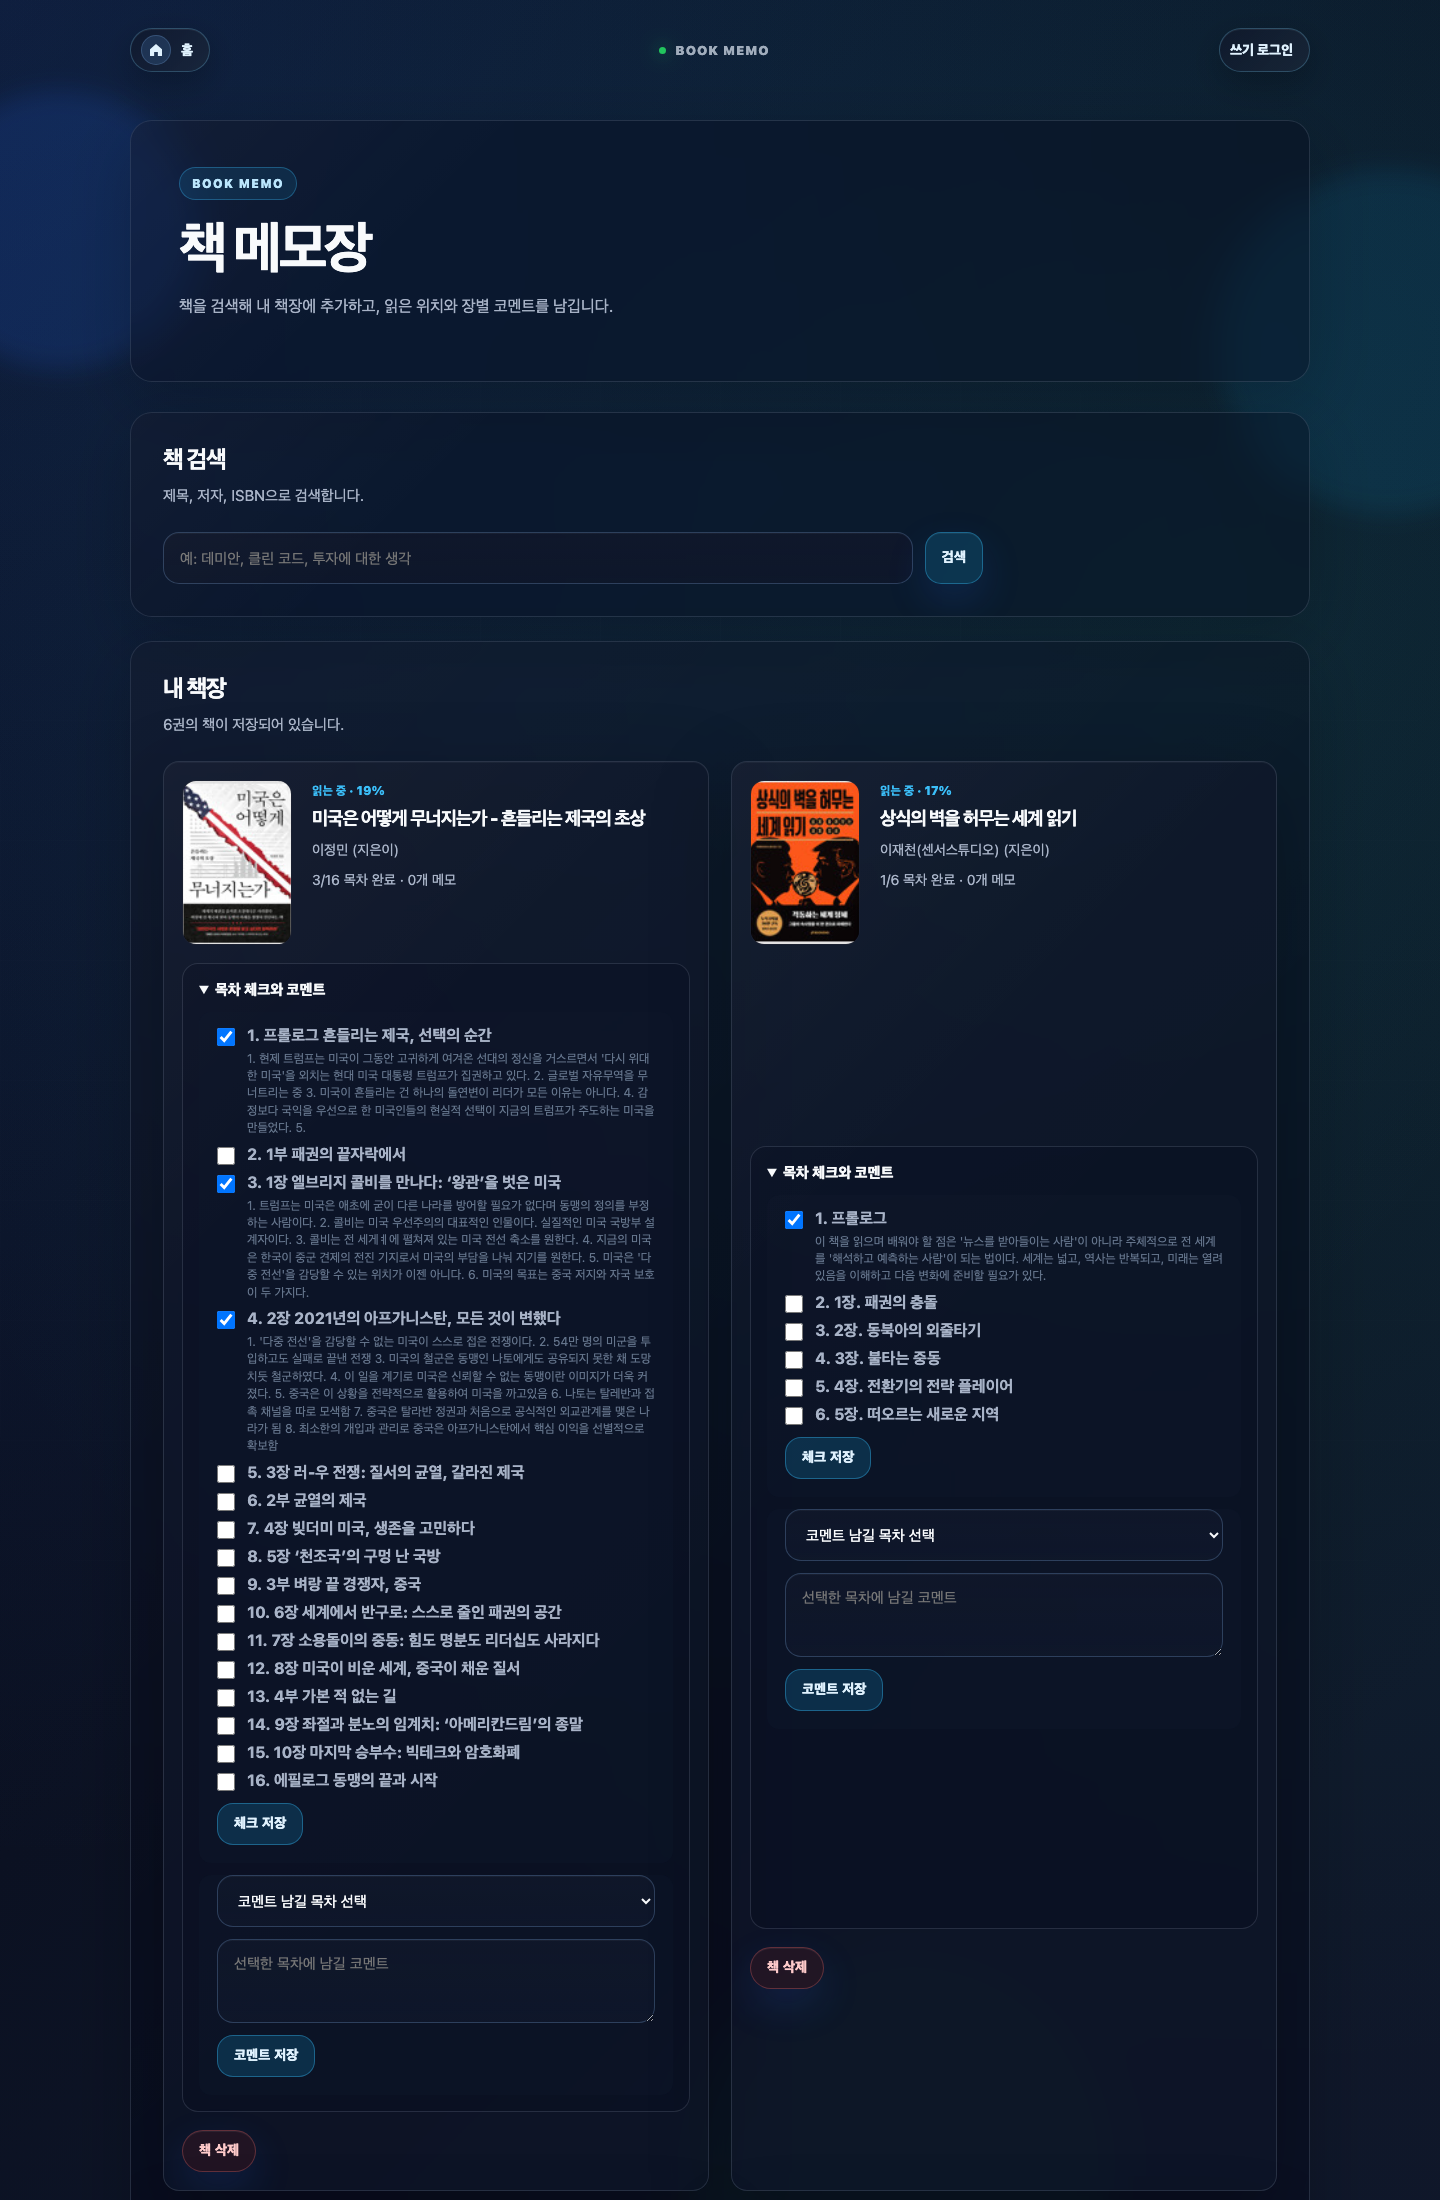
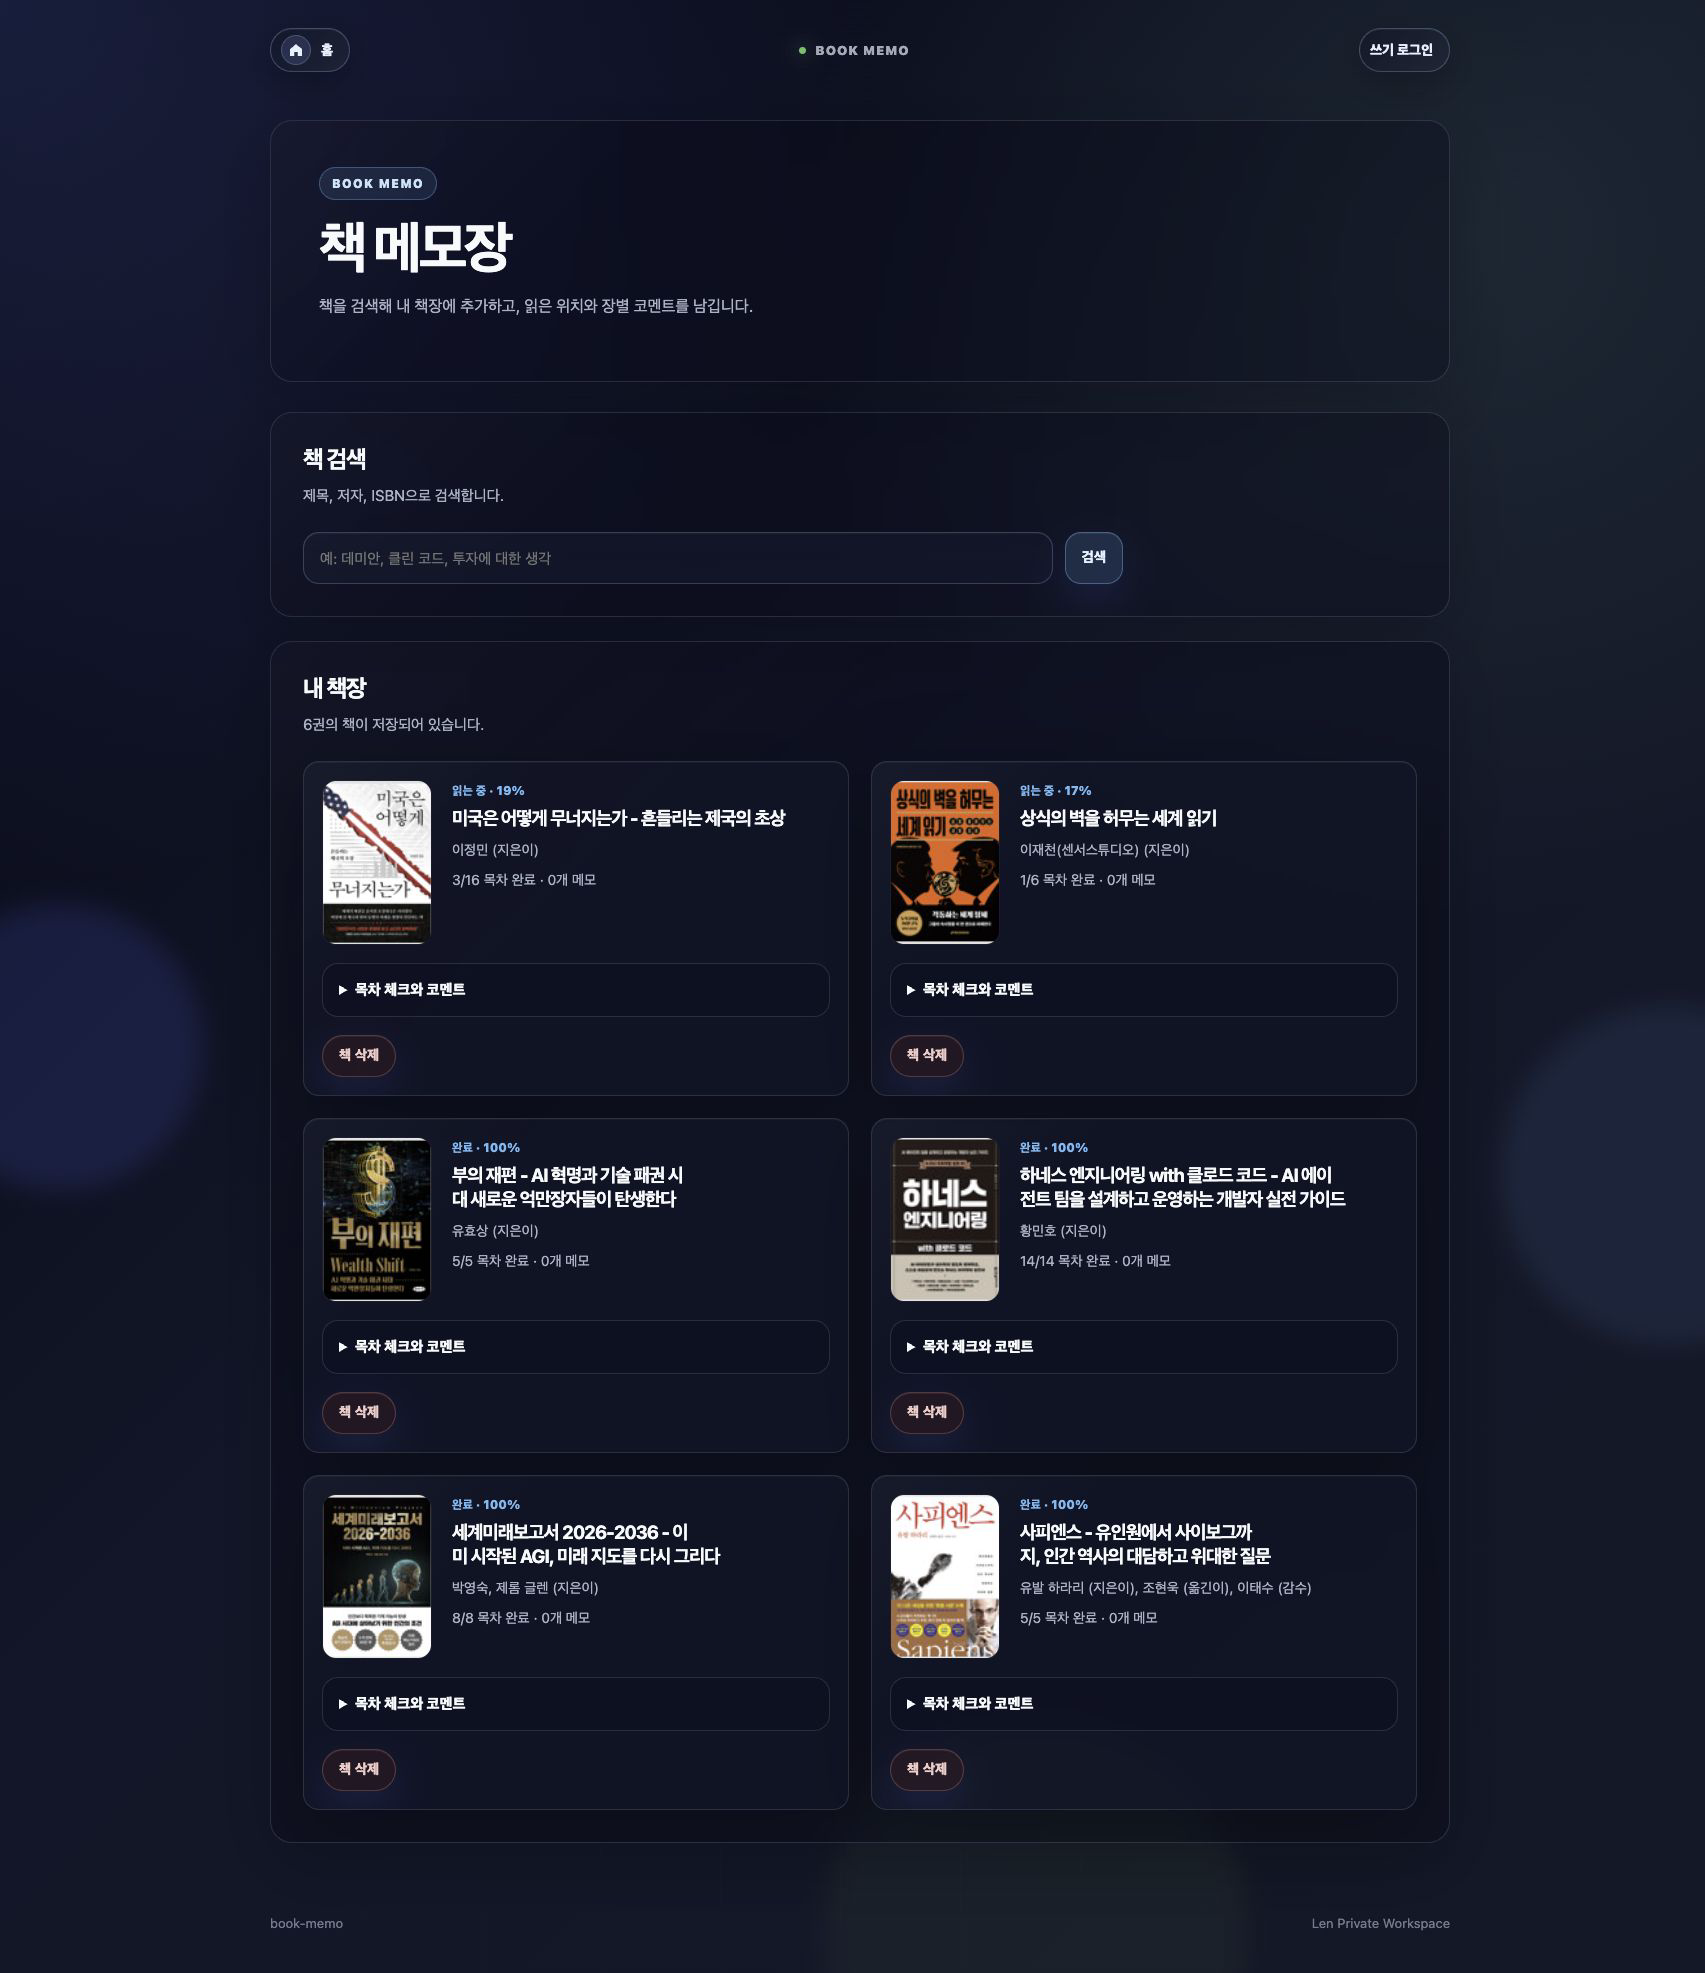
docs: 공개 서비스 화면 5개 재촬영 및 촬영 기준 갱신

diff --git a/docs/images/README.md b/docs/images/README.md
@@ -6,21 +6,21 @@
 |---|---|---|
 | 확인일 | 2026-09-21 | |
 | 대상 | PNG 스크린샷 8개, SVG 구조도 1개 | Git 추적 이미지 전체 |
-| 기준 자료 | 이미지 원본·현재 템플릿·배포 검증 결과 | 촬영 일시는 별도 원본이 없어 확정하지 않음 |
+| 기준 자료 | 이미지 원본·현재 템플릿·배포 검증 결과 | 공개 웹 화면 5개는 2026-09-21 재촬영, 나머지는 기존 원본 기준 |
 
 ## 핵심 요약
 
-이미지 파일 누락·PNG 데이터 손상은 발견되지 않음. 스크린샷은 기능 소개용 과거 예시이며 최신 운영 상태를 증명하지 않음. 구조도는 현재 공개 경로와 실행 주체를 설명하며, upstream을 조회하는 주체를 배포 스크립트로 보완함.
+이미지 파일 누락·PNG 데이터 손상은 발견되지 않음. 공개 웹 화면 5개를 실제 Chrome에서 재촬영함. 관리자·차량 Telegram·Grafana는 과거 예시를 유지함. 새 화면도 촬영 이후의 상태나 배포 버전을 증명하지 않음. 구조도는 현재 공개 경로와 실행 주체를 설명하며, upstream을 조회하는 주체를 배포 스크립트로 보완함.
 
 ## 전체 이미지 상세
 
 | 이미지 | 용도·검토 결과 | 최신 반영 판단 | 비고 |
 |---|---|---|---|
-| [Portal](portal-dashboard.png) | 서비스 카드·전체 검색 예시, 글자와 주요 영역 확인 | 현재 템플릿과 촬영본의 완전 일치는 확인 필요 | 메인 README 미참조, 이 목록에서 보존 참조 |
-| [뉴스](news-hub.png) | 수집 결과·기사 목록 예시 | 현재 코드의 마지막 정상 수집·실패 횟수 표시가 없어 재촬영 필요 | 이미지에 2026-09-10 기사 시각이 표시됨 |
-| [파일함](file-manager.png) | 파일 목록·업로드·검색·정렬 예시 | 동시 업로드 보호 변경은 화면만으로 검증할 수 없음 | 저장된 파일명·개수는 현재 상태 아님 |
-| [Book](book-memo.png) | 책장·목차·코멘트 예시 | 7차 GET 무변경·다른 책 목차 거부는 화면으로 판별 불가 | 배포·회귀 증적을 기준으로 함 |
-| [YouTube](youtube-memo.png) | 영상 등록·저장 목록 예시 | 촬영 이후 목록 변경 여부는 확인 필요 | 링크 등록으로 운영 데이터를 추가하지 않음 |
+| [Portal](portal-dashboard.png) | 서비스 카드·전체 검색 | 2026-09-21 실제 서비스 전체 페이지 촬영 | 메인 README 미참조, 이 목록에서 확인 |
+| [뉴스](news-hub.png) | 수집 최신성·세계 경제·IT·AI 주제 선택 | 2026-09-21 재촬영, 최근 성공 시각과 정상 표시 확인 | 실제 화면 표시값 보존 |
+| [파일함](file-manager.png) | 파일 목록·업로드·검색·정렬 | 2026-09-21 실제 목록 화면 촬영 | 파일 열기·다운로드·업로드·삭제 미수행 |
+| [Book](book-memo.png) | 책장·진행률·목차 진입점 | 2026-09-21 실제 책장 전체 촬영 | 목차를 화면에서 접음, 저장·삭제 미수행 |
+| [YouTube](youtube-memo.png) | 영상 등록·저장 목록 | 2026-09-21 실제 서비스 전체 페이지 촬영 | 영상 등록·메모 저장·삭제 미수행 |
 | [관리자](admin-status.png) | 자원·HomeOps·보안 상태 예시 | 과거 Compose 목록과 업로드 제한 표시가 현재 코드와 달라 재촬영 필요 | 화면 표시일 2026-09-10, 현재 이미지·허용 서비스 증거로 사용하지 않음 |
 | [차량 Telegram](car-care-telegram-status.png) | 차량 상태·운행 알림 예시 | 9차 중복 처리 방지는 정적 이미지로 검증할 수 없음 | 메시지·계기 값은 과거 예시 |
 | [Grafana](grafana-k3s-overview.png) | 클러스터 자원 대시보드 예시 | No data와 과거 Pod 수가 있어 최신 화면 재촬영 필요 | HTTP 전용 대시보드·현재 지표 정상 증거가 아님 |
@@ -30,13 +30,14 @@
 
 - PNG 8개를 직접 열어 확인하고 전체 chunk CRC·압축 데이터 해제를 검증함.
 - SVG는 XML 구조·참조를 점검하고 렌더링 결과를 확인함.
-- 실제 스크린샷 픽셀·수치·알림 내용을 합성하거나 고치지 않음. PNG 원본은 유지함.
+- 재촬영한 5개 화면은 브라우저가 반환한 JPEG 원본을 PNG 형식으로 변환해 기존 경로에 저장함. 페이지 내용·수치·픽셀 합성·보정은 수행하지 않음. 이전 이미지는 Git 이력에 보존됨.
+- 재촬영 파일 5개를 직접 열어 배치·가독성을 확인함. 문서 색인 27건과 `git diff --check`를 통과함. 재촬영 PNG 5개의 형식·CRC·압축 데이터 해제를 검증함.
 - 최신 코드 반영과 운영 이미지 적용은 [배포 검증 결과](../reviews/20260921_K3s앱배포_검증결과.md)를 사용함.
 
 ## 확인 필요 사항
 
-현재 화면을 소개할 목적으로 게시하려면 뉴스·관리자·Grafana를 우선 재촬영 필요함. 인증된 관리자·Grafana 화면은 비밀값·개인 정보 노출 여부를 확인한 실제 화면만 사용하며, 테스트 통과나 이미지를 근거로 현재 운영 수치를 만들어 넣지 않음.
+관리자 인증 화면을 확인했으며 사용자 로그인 대기 중임. Grafana는 N100 내부 전용이므로 접근 가능한 로그인 페이지가 필요함. 차량 Telegram은 기존 이미지를 유지하며 이번 웹 촬영에 포함하지 않음. 인증된 관리자·Grafana 화면은 비밀값·개인 정보 노출 여부를 확인한 실제 화면만 사용하며, 테스트 통과나 이미지를 근거로 현재 운영 수치를 만들어 넣지 않음.
 
 ## 후속 조치
 
-README는 기존 화면을 촬영 예시로 명시함. 새 화면 확보 시 해당 PNG와 이 목록의 검토 결과를 함께 갱신함. 문서 변경만으로 운영 서비스나 공개 포트폴리오 저장 데이터가 자동 갱신되는 것은 아님.
+README는 재촬영 5개와 기존 화면 3개를 구분함. 관리자·Grafana 접근 준비 후 해당 화면과 이 목록을 함께 갱신함. 기능 영향 없는 문서·이미지 교체로 주 담당 1명이 수행함. 문서 변경만으로 운영 서비스나 공개 포트폴리오 저장 데이터가 자동 갱신되는 것은 아님.
